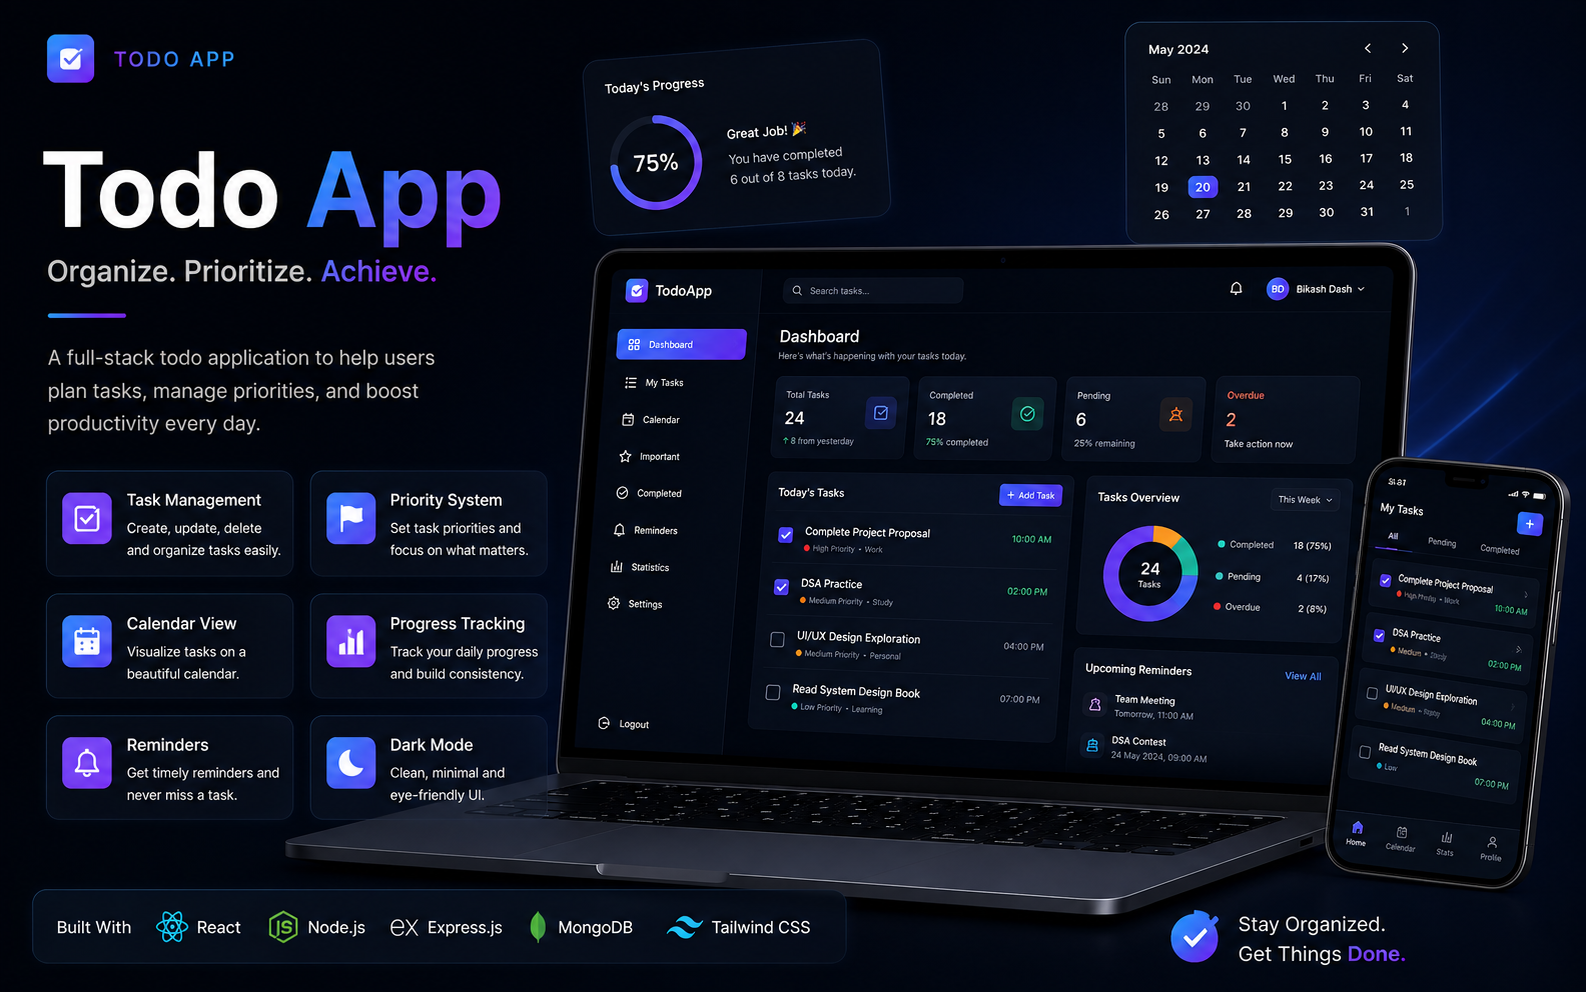
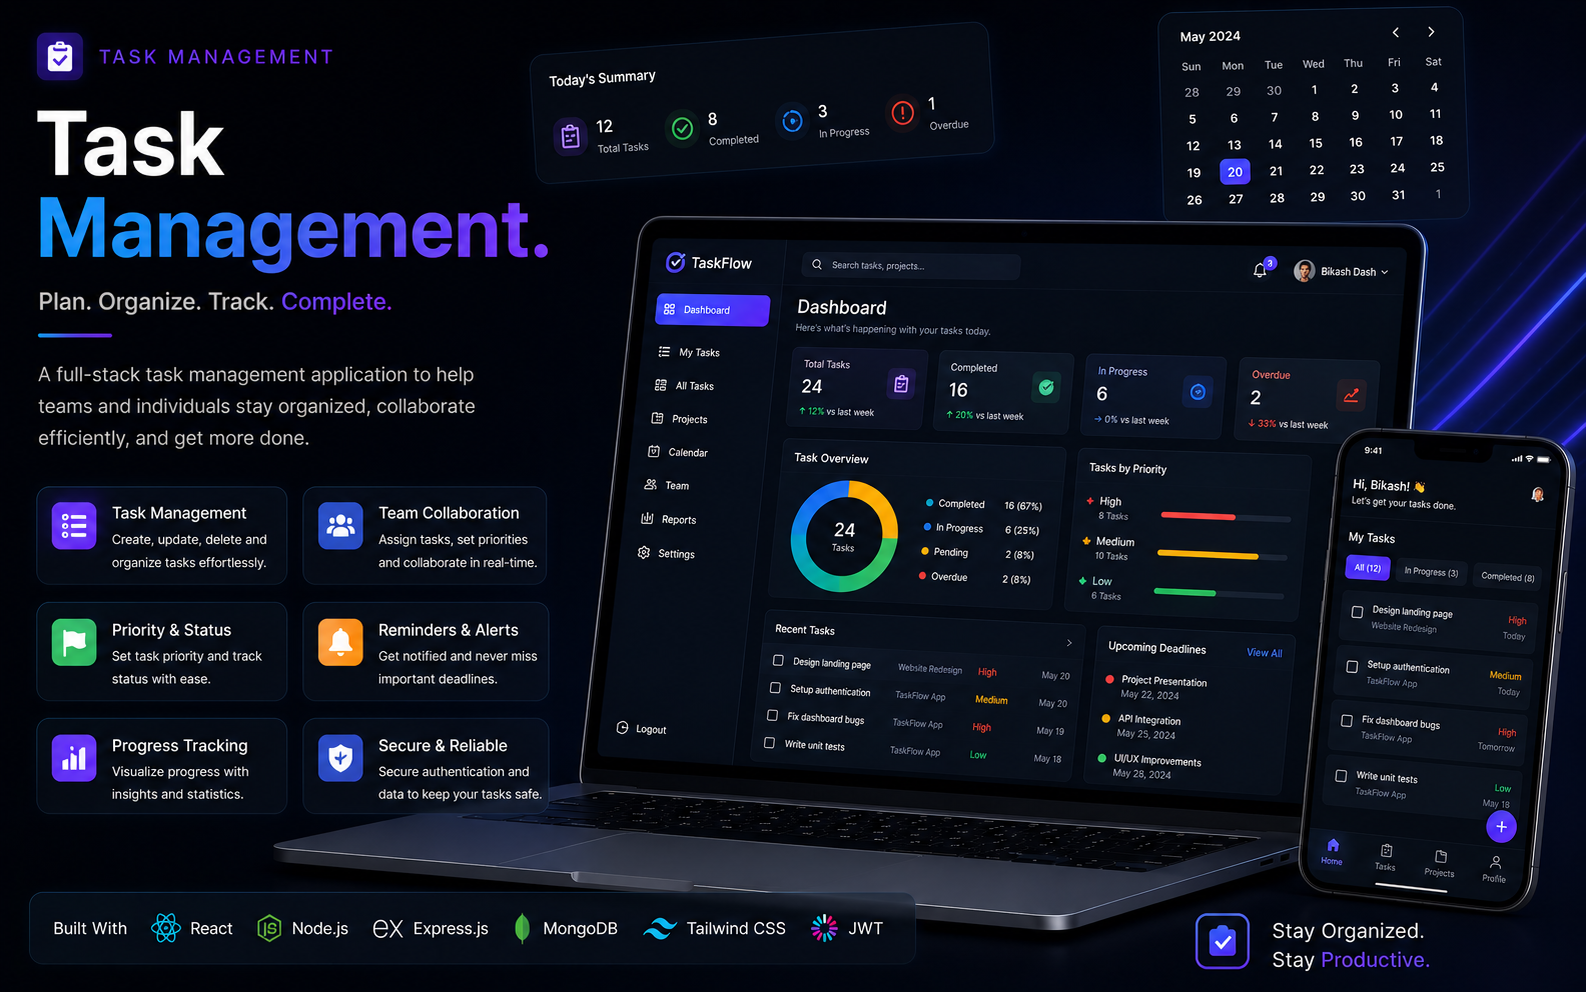
Fix unescaped apostrophe for Vercel build

diff --git a/src/components/Contact.js b/src/components/Contact.js
@@ -105,7 +105,7 @@ export default function Contact() {
           transition={{ duration: 0.5, delay: 0.05, ease: [0.16, 1, 0.3, 1] }}
           className="font-display mb-6 max-w-xl text-3xl font-semibold leading-snug text-text-primary md:text-4xl"
         >
-          Let's talk.
+          Let&apos;s talk.
         </motion.h2>
 
         <motion.p
